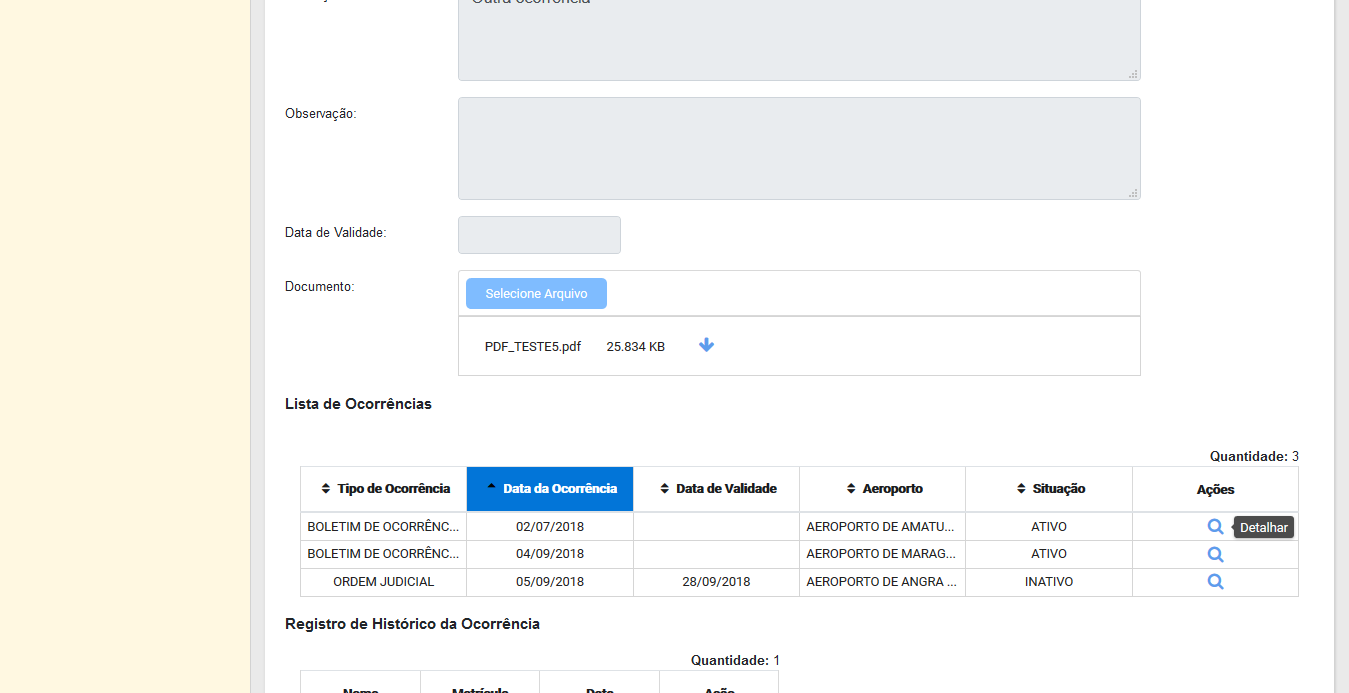
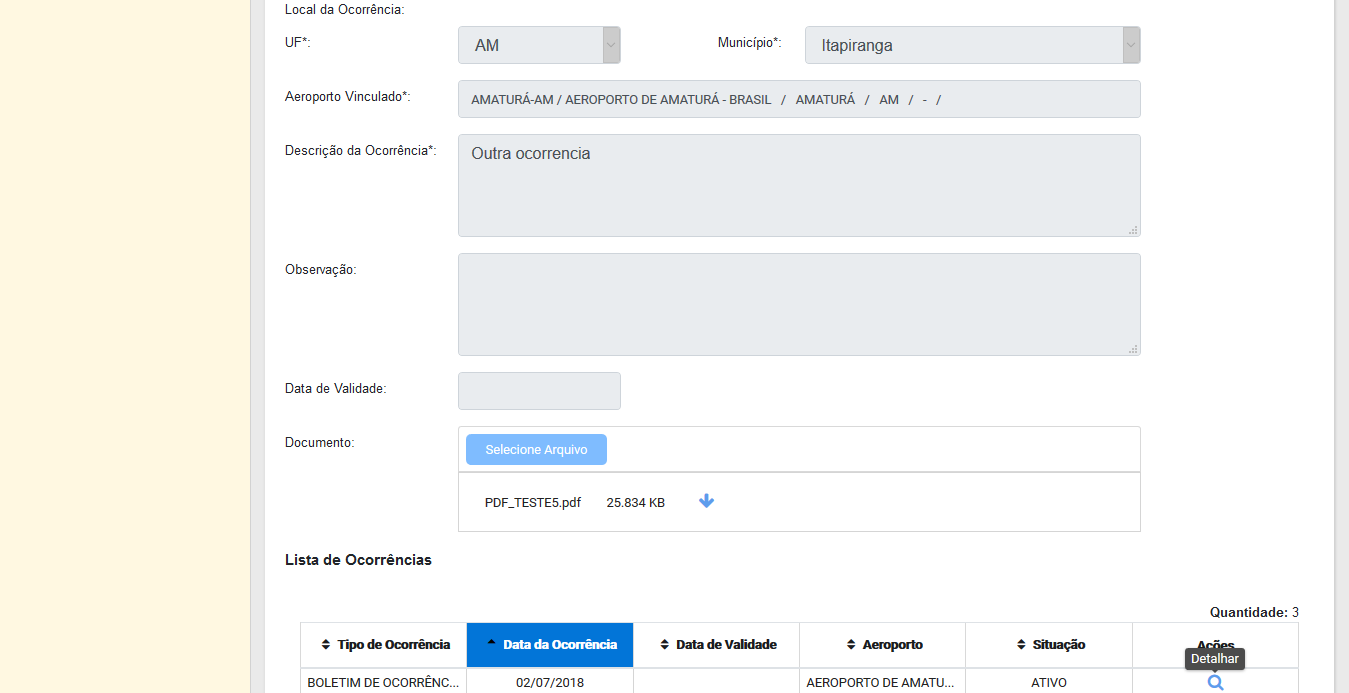
#Update Cadastrar

diff --git a/features/support/pages/cadastrar_page.rb b/features/support/pages/cadastrar_page.rb
@@ -11,6 +11,8 @@ class Cadastrar < SitePrism::Page
     element :btn_cancelar, '#cancelar'
     element :adcionar_doc, '#adicionarDocumento'
     element :mostrar_dados_credenciais, '.ui-fieldset-toggler'
+    element :btrn_salvar, '#salvar'
+    element :btn_prosseguir, '#prosseguir '
     
     #Elementos: CheckBox Mapeados
     element :nacionalidade_desconhecida, '#nacionalidadeDesconhecida'
@@ -27,6 +29,7 @@ class Cadastrar < SitePrism::Page
     element :municipio_ocorrencia_opcao, '#municipio'
     element :aeroport_vinc, '#aeroportoVinculado'
     element :auto_complet, '.ui-autocomplete-items'
+    element :data_validacao, '#dataValidade'
  
     
     
@@ -46,6 +49,14 @@ class Cadastrar < SitePrism::Page
 
     def cancelar
         btn_cancelar.click
+    end
+
+    def salvar
+        btrn_salvar.click
+    end
+
+    def prosseguir
+        btn_prosseguir.click
     end
 
     #metodo seleção documentos
@@ -81,11 +92,13 @@ class Cadastrar < SitePrism::Page
     end
 
     #método de ação: adicionar Documentos do Candidato
-    def adicionar_documentos (tipo_doc)
-        adcionar_doc.click
+    def adicionar_documentos (tipo_doc, num_doc)
         doc_selecao tipo_doc
+        numero_doc.set num_doc
+        adcionar_doc.click
     end
 
+    
     #método exibir dados credenciais
     def dados_credenciais 
         mostrar_dados_credenciais.click
@@ -118,7 +131,7 @@ class Cadastrar < SitePrism::Page
     #metodo UF da Ocorrência
     def uf_ocorrencia(uf)
         uf = uf.upcase
-        
+        find_by_id('uf').click
         case uf
             when 'AC'
                 find('#uf > option:nth-child(2)').select_option
@@ -190,15 +203,45 @@ class Cadastrar < SitePrism::Page
         auto_complet.click
      end
 
-     #método realizar a descrição da ocorrência
-     def ocorrencia_descricao(argumentos)
-        argumentos = argumentos.upcase
+     #método descrição da ocorrência
+     def ocorrencia_descricao(texto)
+        texto = texto.upcase
 
-        text_area = first('#descricaoOcorrencia').native
-        text_area.send_keys(argumentos)
+        desc = first('#descricaoOcorrencia').native
+        desc.send_keys(texto)
      end
 
+     #método observacoes
+     def ocorrencia_observacao(observacao)
+        observacao = observacao.upcase
 
+        obs = first('#observacao').native
+        obs.send_keys(observacao)
+     end
+
+     #métod para lançar a data de validação da ocorrência
+     def lancar_data_validacao(data_validacao_interessado)
+        data_validacao.set data_validacao_interessado
+     end
+
+     #método upload arquivo
+     def upload
+        @arquivo = "C:\\automocao\\siscaer_1.0.2\\features\\arquivos\\PDF_TESTE5.pdf"
+        attach_file('documento', @arquivo, make_visible: true)
+        click_button 'adicionarOcorrencia'
+        sleep(10)
+     end
+
+     def interacao_cadastro(nome_cand, data_nasc_cand, cpf_cand, nome_mae_cand, nasc_dc, nc_cd,t_doc, nu_doc)
+        cadastrar nome_cand, data_nasc_cand, cpf_cand, nome_mae_cand, nasc_dc, nc_cd
+        adicionar_documentos t_doc, nu_doc
+        avancar
+        if  page.has_text? 'Atenção: Foi(ram) encontrado(s) na base do CANARD/Credenciados registro(s) de credenciado(s) com os mesmos dados informados.'
+            prosseguir
+        end
+    end
+
+    
 end
 
 

diff --git a/features/step_definitions/cadastrar.rb b/features/step_definitions/cadastrar.rb
@@ -8,16 +8,27 @@ Quando("eu estou no formulario cadastro") do
      nome_mae = "Analu Ayla Vanessa"
      nasc_desconhecida = 'sim'
      nacionalidade_cand =''
-     @cadastro.cadastrar nome, data_nascimento, cpf, nome_mae, nasc_desconhecida, nacionalidade_cand
-     @cadastro.avancar
+     rg = '354600205'
+     @cadastro.interacao_cadastro nome, data_nascimento, cpf, nome_mae, nasc_desconhecida, nacionalidade_cand,"rg", rg
+     #@cadastro.adicionar_documentos "rg", rg
+     sleep(5)
+    
+
      @cadastro.dados_credenciais 
-     @cadastro.tipo_ocorrencia 'OUTROS'
+     @cadastro.tipo_ocorrencia 'BOLETIM DE OCORRÊNCIA POLICIAL'
      @cadastro.data_ocorrencia "14/10/2012"
      @cadastro.uf_ocorrencia 'df'
      @cadastro.municipio_ocorrencia 'Brasília'
      argum = "Ocorrência em sua essência - Teste"
      @cadastro.aeroporto_vinvulado "brasilia"
      @cadastro.ocorrencia_descricao argum
+     obs = "Test campo observação"
+     data_val = '25/04/2016'
+     @cadastro.ocorrencia_observacao obs
+     @cadastro.lancar_data_validacao data_val
+     @cadastro.upload
+     @cadastro.salvar
+
      sleep(5)
 
   end                                                                            
